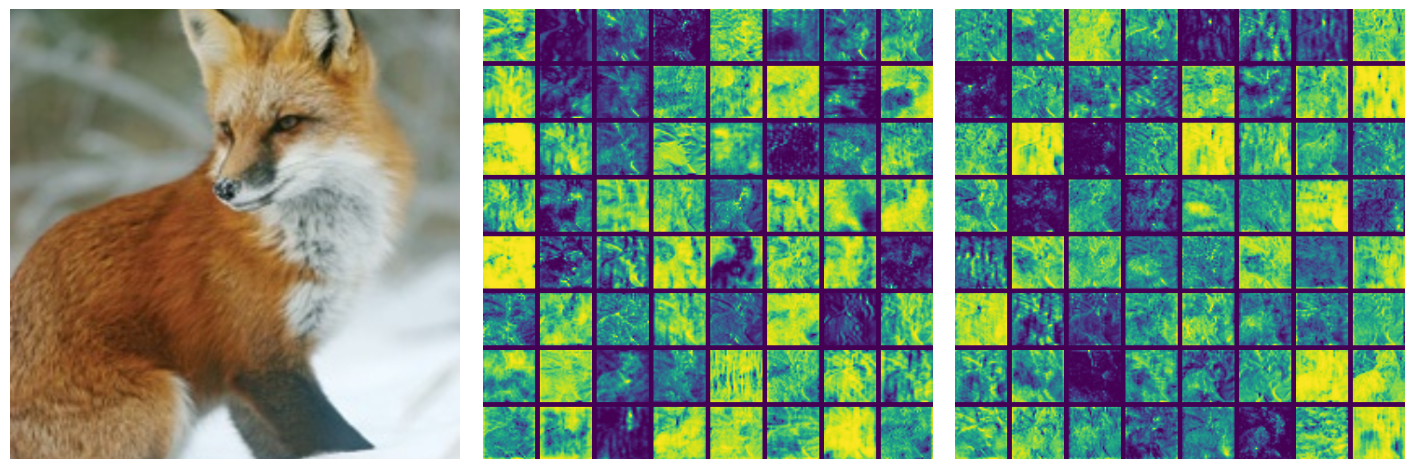
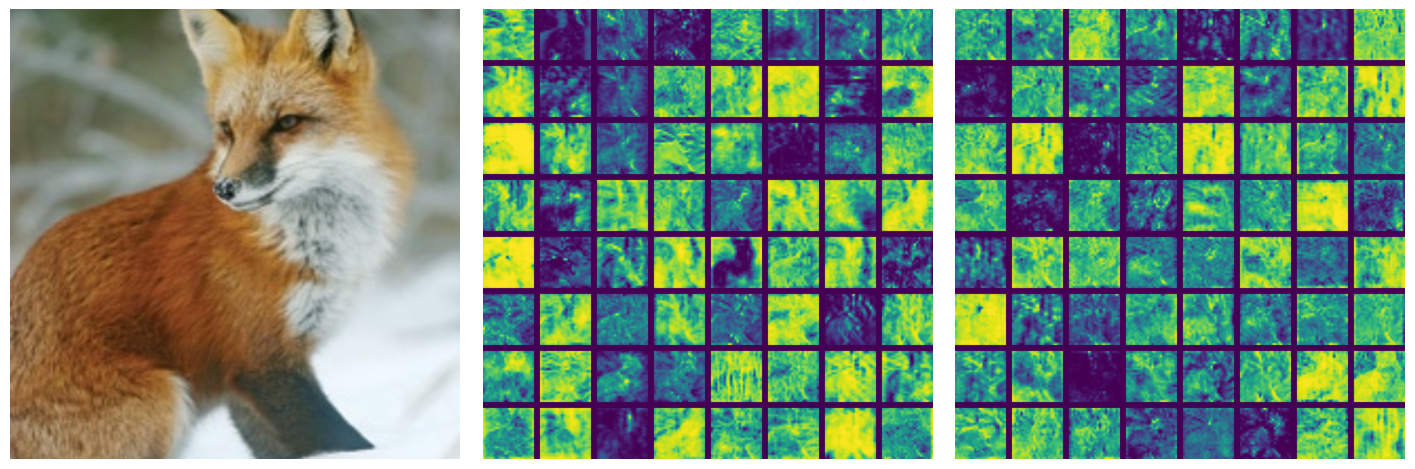
chore: Increase the Resize and CenterCrop dimensions from 256 to 768 (256 * 3)

Changed region(s): [[0.342, 0.0, 0.9951, 0.9851]]

diff --git a/main_viz_example.py b/main_viz_example.py
@@ -8,7 +8,7 @@ from matplotlib import pyplot as plt
 from utils import load_model, register_hook
 
 
-def main(image_paths, target_layer_num, save_dir):
+def main(target_layer_num, image_paths, save_dir):
     device = torch.device('cuda' if torch.cuda.is_available() else 'cpu')
 
     v1_encoder = load_model('convnext_v1_atto').to(device).eval()
@@ -74,8 +74,8 @@ def main(image_paths, target_layer_num, save_dir):
         
 def _get_transform():
     return transforms.Compose([
-        transforms.Resize(256*4), 
-        transforms.CenterCrop(256*4), 
+        transforms.Resize(256*3), 
+        transforms.CenterCrop(256*3), 
         transforms.ToTensor(), 
         transforms.Normalize(mean=[0.485, 0.456, 0.406], std=[0.229, 0.224, 0.225])
     ])
@@ -88,7 +88,7 @@ def _unnormalize_image(image_tensor):
 
     return np.clip(img, 0, 1)
     
-def _create_feature_grid(activation, channel_indices, grid_size=8, upsample_size=56, padding=5):
+def _create_feature_grid(activation, channel_indices, grid_size=8, upsample_size=256, padding=30):
     act_upsampled = torch.nn.functional.interpolate(
         activation.unsqueeze(0), size=(upsample_size, upsample_size), mode='bilinear', align_corners=False
     )
@@ -120,14 +120,14 @@ def _create_feature_grid(activation, channel_indices, grid_size=8, upsample_size
 
 
 if __name__ == '__main__':
-    IMAGE_PATHS = [
+    image_paths = [
         './assets/examples/fountain.jpg', 
         './assets/examples/goldfish.jpg', 
         './assets/examples/fox.jpg', 
         './assets/examples/dog.jpg'
     ]
-    SAVE_DIR = './assets/results/'
+    save_dir = './assets/results/'
 
     main(
-        image_paths=IMAGE_PATHS, target_layer_num=10, save_dir=SAVE_DIR
+        target_layer_num=10, image_paths=image_paths, save_dir=save_dir
     )
